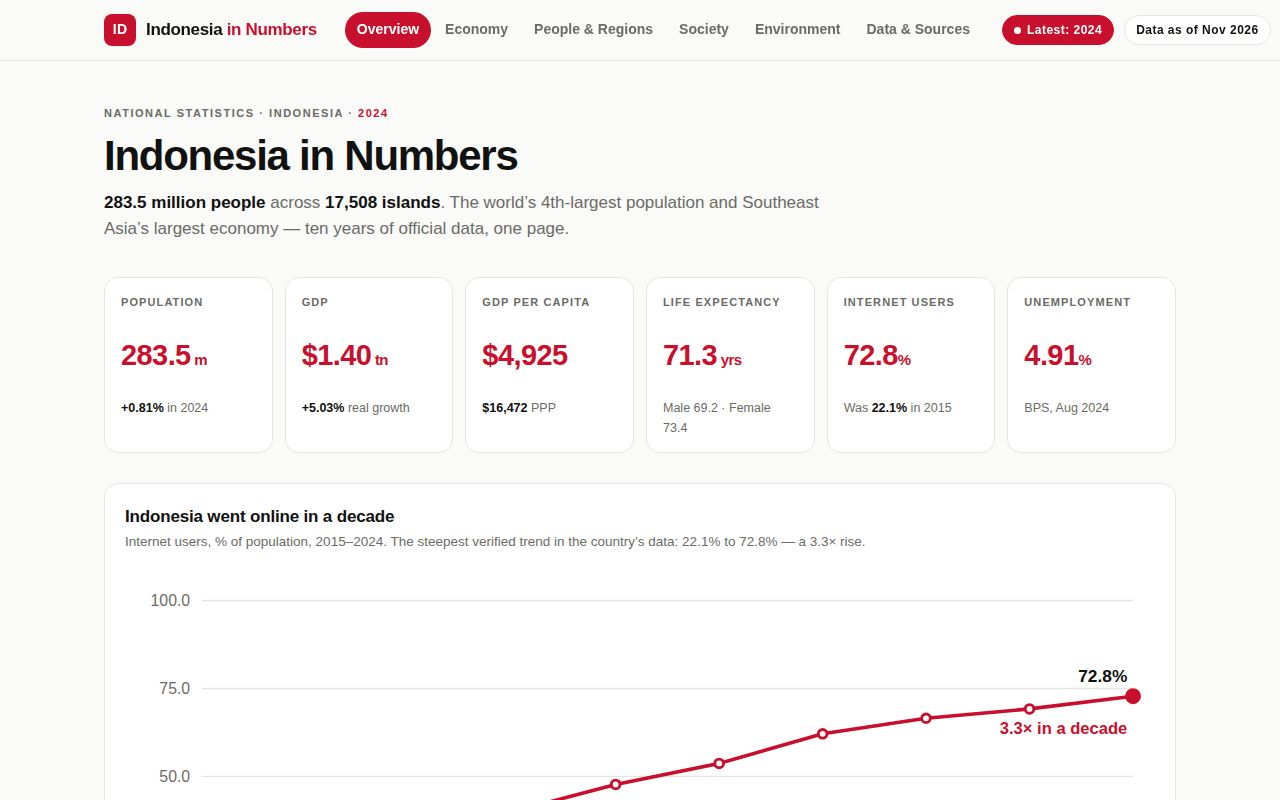
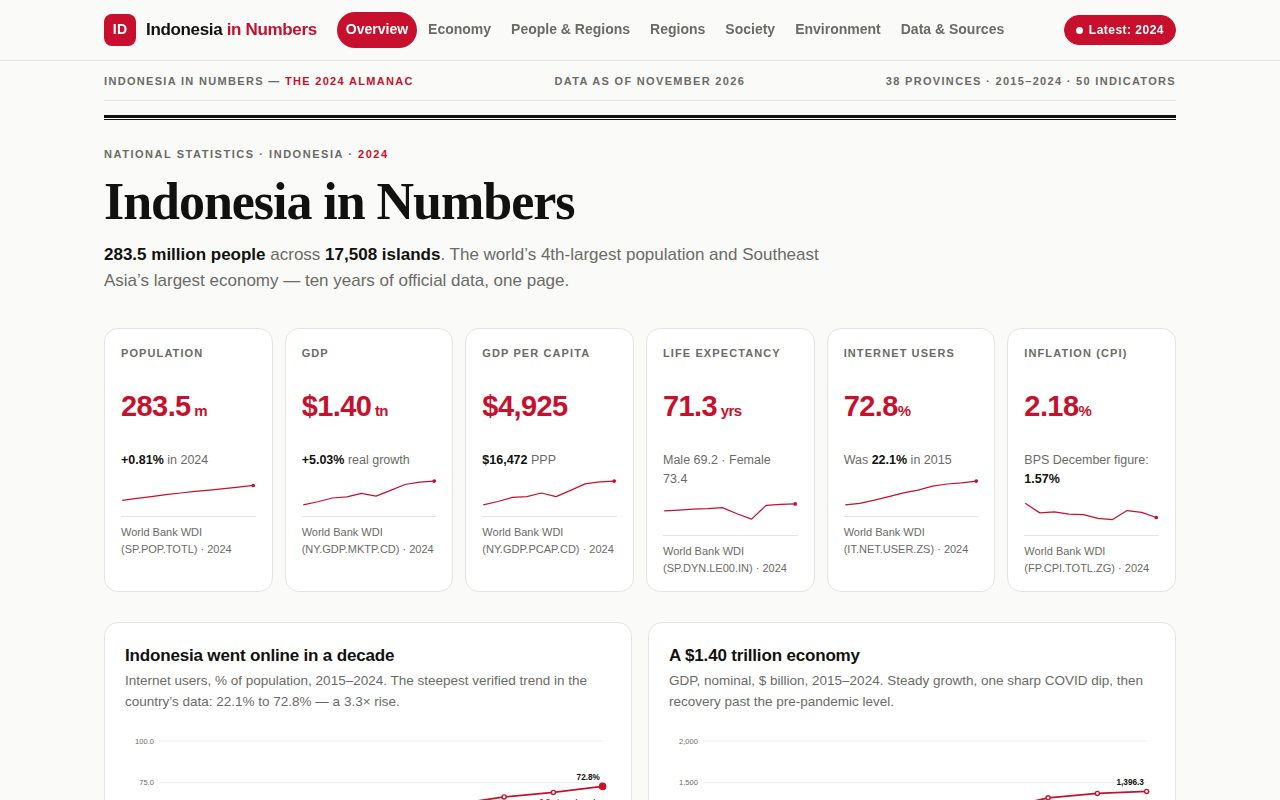
finisher: gate-compliant v2 screenshots + header overflow fix at 1280/1366px
- screenshots/: regenerate all four from the v2 code at 1280x800 / 390x844
  (JPEG q82, all under 256 KiB); 2-regions replaces the v1 2-economy shot
  so the judge's contact sheet shows the new Regions explorer, and
  3-people frames the population pyramid. The v2 branch previously still
  shipped the v1 screenshots.
- styles.css: the seventh nav item (Regions) pushed the header past its
  1120px box below 1400px viewports (scrollWidth 1352 at 1280, clipped
  'Data as of' pill). Below 1400px hide that pill (the cover dateline says
  the same) and tighten the nav; verified no horizontal scroll at
  1120/1280/1366/1440, and strictly better than v1 at 1024 (33px vs 167px
  overflow).

diff --git a/app/styles.css b/app/styles.css
@@ -263,6 +263,15 @@ footer a { color: var(--ink); font-weight: 700; }
 .tilemap-card svg { width: 100%; height: auto; }
 
 /* ---------- responsive ---------- */
+@media (max-width: 1399px) {
+  /* The seventh nav item (Regions) pushes the header past its 1120px box
+     on 1280/1366px viewports (horizontal scroll + clipped pill): hide the
+     "Data as of" pill — the cover dateline says the same — and tighten the
+     nav so the header fits again. */
+  .topbar-right .pill.hide-phone { display: none; }
+  .topbar-inner { gap: 12px; }
+  .nav a { padding: 7px 9px; }
+}
 @media (max-width: 1023px) {
   .kpis { grid-template-columns: repeat(3, 1fr); }
   .minis { grid-template-columns: repeat(2, 1fr); }
